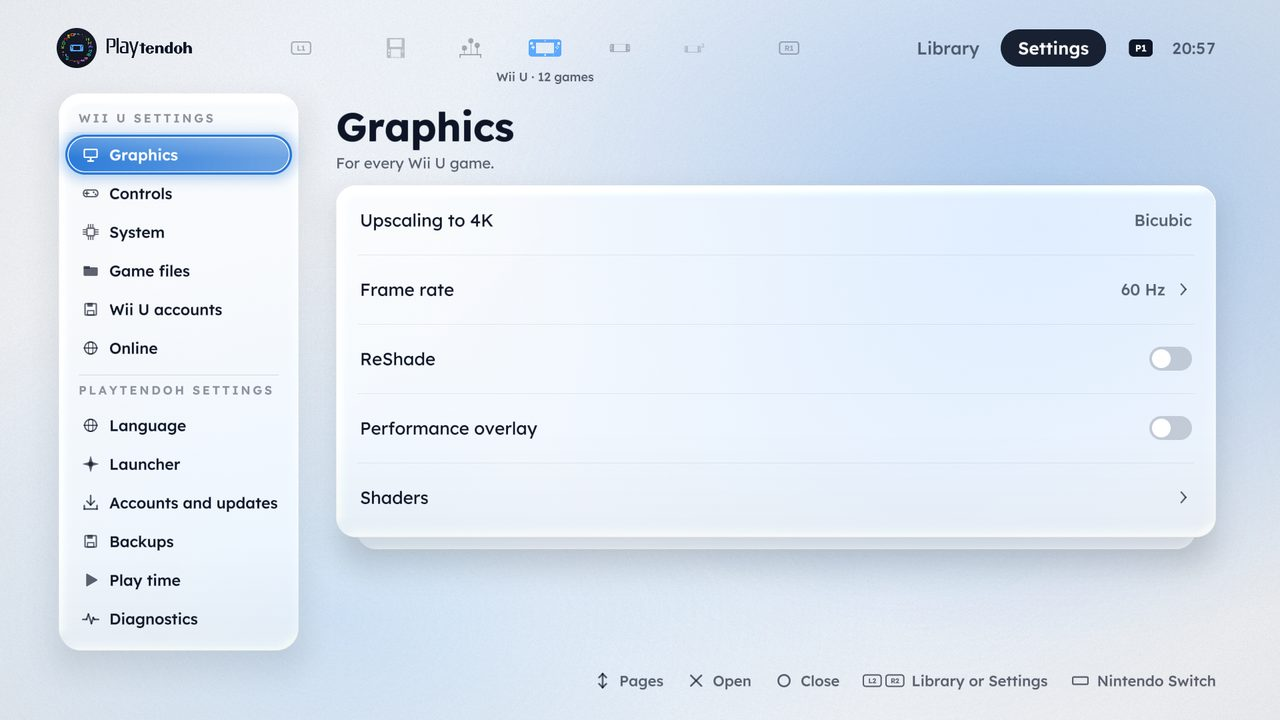
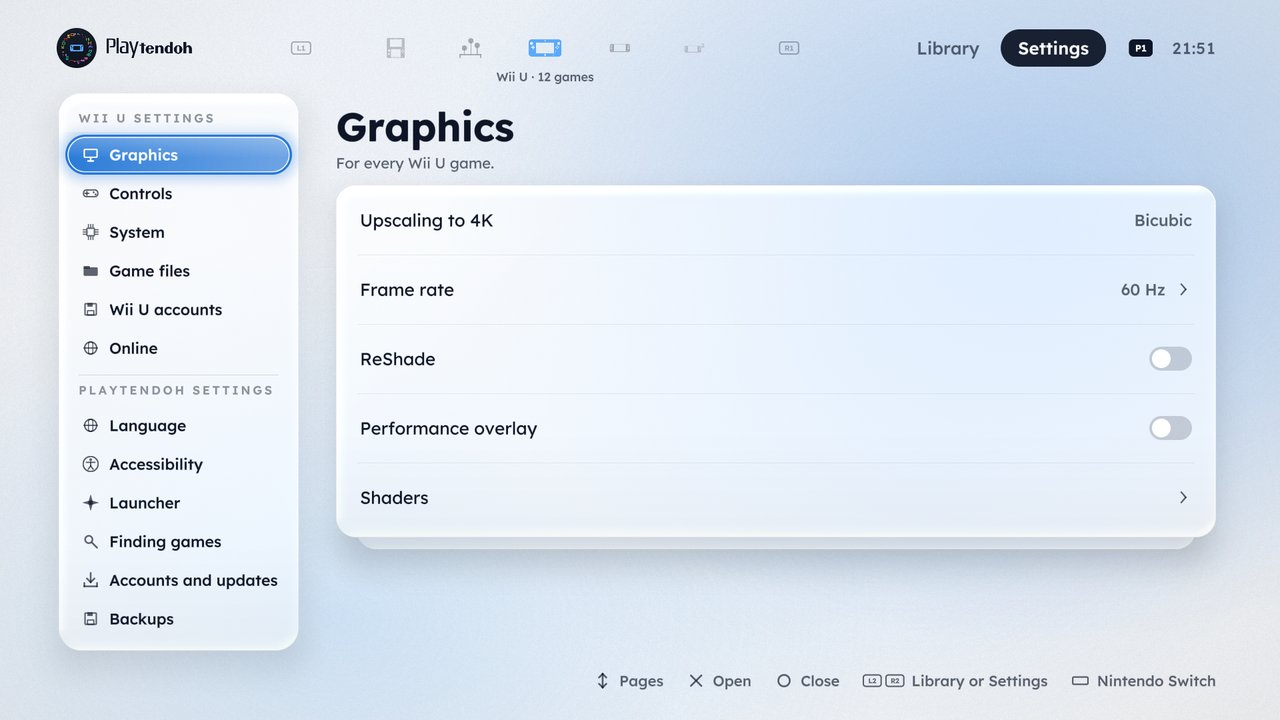
Guide: put your games anywhere, and the new first start, Setup check and Settings pages
Where your files go starts with "anywhere" and the drop folder; the first start's page has its new steps
(easier to see, finding your games, copying keys and BIOS, the summary) and the anchors the app's QR
codes open (setup-check#finding-games, #files-to-copy); the Setup check's folded groups and its two new
rows; Settings' Accessibility and Finding games; troubleshooting for an empty Library, games on a drive
taken out, and keys and firmware that don't match. The README says the same in short. The pictures are
the PC preview's, with the console's own paths in them (first-covers.jpg goes with its question).

Changed region(s): [[0.0625, 0.6417, 0.2188, 0.7639], [0.0625, 0.7944, 0.2188, 0.825], [0.0625, 0.8556, 0.1562, 0.8861]]

diff --git a/site/guide/setup-check.md b/site/guide/setup-check.md
@@ -1,15 +1,32 @@
 # The first start and the Setup check
 
-The first time Playtendoh starts, it asks five questions, one a screen, then shows what's ready. Cross
-chooses and goes on, Circle goes back a step, and the bar at the top right says how far along you are.
-Every answer can be changed later, and **Settings > Launcher > Make it yours** runs the questions again.
+The first time Playtendoh starts, it asks a few questions, one a screen. While you answer them it looks for
+your games, BIOS files and keys on your USB drives and the PS5's storage, so you don't have to put them in
+any particular place. Then it shows what it found. Cross chooses and goes on, Circle goes back a step, and
+the bar at the top right says how far along you are. Every answer can be changed later, and **Settings >
+Launcher > Make it yours** runs the questions again.
 
 ## 1. Which language? {#language}
 
 Playtendoh speaks your PS5's language, marked **PS5**. Pick another if you like; **Settings > Language**
-changes it later. 31 languages are in.
+changes it later. 31 languages are in. **Triangle** makes the text larger right away, on this screen and the
+next.
 
-## 2. How do you want to browse your games? {#layout}
+## 2. Make Playtendoh easier to see? {#accessibility}
+
+![Larger text, High contrast and Reduce motion, each with its switch, and Continue below them.](img/first-easier.jpg)
+
+| Choice | What it does |
+|---|---|
+| **Larger text** | Every word a size larger, in every menu. |
+| **High contrast** | Solid panels instead of glass, all text at full strength and a thicker focus ring. |
+| **Reduce motion** | Short fades instead of movement, and a background that keeps still. |
+
+Cross turns the selected one on or off and you see it at once. **Continue**, below them, is selected when the
+screen opens, so one press goes on. **Settings > Accessibility** changes them later, with **Hold to
+confirm** (how long Cross is held for actions that can't be undone).
+
+## 3. How do you want to browse your games? {#layout}
 
 ![The layout question: Classic, Orbit or EmulationStation.](img/first-layout.jpg)
 
@@ -21,13 +38,7 @@ changes it later. 31 languages are in.
 
 Your games, saves and settings are the same whichever you pick. **Settings > Launcher > Layout** changes
 it later. With EmulationStation, hold **L1** while Playtendoh starts to get its own launcher instead.
-
-## 3. How should covers look? {#covers}
-
-![Flat covers or 3D boxes.](img/first-covers.jpg)
-
-**Flat** shows each cover as a picture, and the most games at once. **3D boxes** shows each game as its
-box, spine and all. Covers come from GameTDB either way. **Settings > Launcher > 3D box art** changes it.
+Covers are flat pictures to start with; **Settings > Launcher > 3D box art** shows them as boxes.
 
 ## 4. Which button is A? {#buttons}
 
@@ -47,41 +58,89 @@ your PSN name or ID, your console's serial or addresses, your accounts, folders,
 The reports make the [compatibility list](../compatibility.html) and help fix what fails.
 **Settings > Accounts and updates > Send reports** turns it on or off later.
 
-## 6. You're ready to play, or almost {#ready}
+## 6. Finding your games {#finding-games}
 
-![The last screen: the games found on each console, and what stands in the way of playing them.](img/first-ready.jpg)
+Playtendoh looks through, in any folders:
 
-The last screen asks nothing. It shows the games found on each console, and anything that stands in the
-way of playing them, with a QR code to the page of this guide that fixes it. Cross starts playing.
+- every **USB drive** and the **extended storage** plugged in;
+- **`/data/playtendoh`**, a folder made for you: put anything there;
+- **`/data/homebrew`** and the rest of **`/data`**, every system's own folder included.
 
-## 7. Turn on the systems you want {#systems}
+It finds every system's games by their file types (and, where it's quick, by what is inside them: a `.3ds`
+that is really a 3D model is left out), BIOS files by their names and sizes, the Switch's `prod.keys`,
+`title.keys` and firmware (a folder of `.nca` files), and the Wii U's `keys.txt`.
 
-> [!IMPORTANT]
-> **Out of the box, the bar shows the Wii U, Switch, Switch 2, DS and 3DS only.** The GameCube, the Wii and
-> every classic system (N64, NES, SNES, the Game Boys and the rest) start hidden. Turn on the ones you
-> want: **Settings > Launcher > Systems**.
+- **Games are played where they are.** Nothing is moved, renamed or deleted. A system's Library looks in
+  its own folder and in each place its games were found.
+- **Every system it finds games for is turned on** in the bar, unless you hid it yourself.
+- **A folder you chose** in a system's **Settings > Game files** is used as it is: Playtendoh adds nothing to
+  that system.
+
+If the look is still going when you finish the questions, a screen shows where it's looking; Cross goes on
+without waiting, and what it finds shows up in the Library as it ends. Playtendoh looks again at every start
+and when you plug in a drive (a sign beside the clock shows while it looks).
+
+![Settings > Finding games: Find games by itself, Look now, Copy found files, Where games were found and the drop folder.](img/finding-games.jpg)
+
+**Settings > Finding games** turns that off, looks again whenever you ask (**Look now**), lists where each
+system's games were found, and copies what it found (**Copy found files**). The Setup check's **Find games
+and files** row looks again too.
+
+## 7. Copy your keys and BIOS into place? {#files-to-copy}
+
+![The files found, from where, and Copy them or Not now.](img/first-files.jpg)
+
+BIOS files, keys and firmware are different from games: each emulator reads them from one folder of its
+own. When Playtendoh finds one that isn't there yet, it asks before copying it there:
+
+- **Copy them** makes a copy in the emulator's folder ([Where your files go](files.md) lists them). Your file
+  stays where it is, and **a file already there is never replaced**.
+- **Not now** leaves them; **Settings > Finding games > Copy found files**, or the Setup check's **Files to
+  copy** row, copies them later.
+
+The Switch's keys and firmware are copied for the Switch 2 side too. When there are several, the newest keys
+are taken, with the firmware found nearest to them: keys and firmware from the same console and the same
+system version work best together ([error 59](troubleshooting.md#switch-error-59)).
+
+## 8. You're ready to play, or almost {#ready}
+
+![The last screen: each console's games, how many and where they were found, and what stands in the way of playing them.](img/first-ready.jpg)
+
+The last screen asks nothing. It shows each console's games, how many and where they were found, and
+anything that stands in the way of playing them, with a QR code to the page of this guide that fixes it.
+Cross starts playing.
+
+## Showing and hiding systems {#systems}
+
+Every system Playtendoh finds games for is shown in the bar. Out of the box, before any games are found,
+the bar shows the Wii U, Switch, Switch 2, DS and 3DS; the GameCube, the Wii and every classic system (N64,
+NES, SNES, the Game Boys and the rest) appear as soon as their games are found. **Settings > Launcher >
+Systems** shows or hides any of them.
 
 ![Settings > Launcher > Systems: a switch for each console.](img/systems.jpg)
 
-Each system has a switch. A hidden system keeps its games and settings, and at least one stays on.
+Each system has a switch. A hidden system keeps its games and settings, at least one stays on, and a system
+you hid stays hidden whatever games are found for it.
 
 ## The Setup check {#setup-check}
 
 The Setup check answers "why doesn't it work?" in one screen. It opens by itself when a start finds
 something wrong with storage or game speed, and any time from **Settings > Diagnostics > Setup check**.
 
-![The Setup check: what needs you, what's optional, what's ready, and the selected row explained beside it.](img/setup-check.jpg)
+![The Setup check: what needs you, then Optional and Ready folded into a row each, and the selected row explained beside it.](img/setup-check.jpg)
 
-Each row is one thing Playtendoh needs, grouped:
+It shows first what **needs you** (amber), a row each: something to fix before those games can play. Below
+them, two rows hold the rest, folded so the screen stays short:
 
-- **Needs you** (amber): something to fix before those games can play.
-- **Optional** (grey): only some games need it.
-- **Ready** (green): nothing to do.
+- **Optional** (grey): what only some games need, a console's own BIOS, the 3DS's system files and the like.
+- **Ready** (green): what works, your games among it.
+
+Cross on either opens it, and again folds it.
 
 Move to a row and the panel beside it says what it means and what to do, with a **QR code**: scan it with
-your phone and it opens the page of this guide about that row. **Cross** does the row's action (choose a
-folder, see how), **Triangle** checks everything again after you've copied files, and **Circle** goes on
-to the Library.
+your phone and it opens the page of this guide about that row. **Cross** does the row's action (look for
+games, copy files, choose a folder, see how), **Triangle** checks everything again after you've copied
+files, and **Circle** goes on to the Library.
 
 ## Every row, and what to do {#rows}
 
@@ -89,7 +148,9 @@ to the Library.
 |---|---|
 | **Storage** | `/data` can't be reached. [Let Playtendoh in](jailbreak.md#app-jailbreak) through your HEN, or run an ELF loader on port 9021, then start the app again. |
 | **Game speed** | Wii U games would run slowly. See [game speed](jailbreak.md#game-speed). |
-| ***Console* games** | No games found yet in that console's folder. Copy them in, or press Cross to choose another folder. [Where your files go](files.md) has every folder. |
+| **Find games and files** | How many games the last look found. Cross looks again on the drives and in `/data` ([finding your games](#finding-games)). |
+| **Files to copy** | BIOS files, keys or firmware were found and aren't in place yet. Cross copies them; the panel lists each one, from where and to where ([copying](#files-to-copy)). |
+| ***Console* games** | How many games that console has, and where most of them are. None yet is optional: put them anywhere on a USB drive or in `/data/playtendoh`, or press Cross to choose a folder. "Cannot be read" is a folder you chose that isn't there. |
 | **Wii U disc keys** | Only encrypted `.wud` and `.wux` need them. It says how many keys `keys.txt` holds; "no keys" on a file you filled before means it was emptied: put your copy back ([disc keys](wii-u.md#disc-keys)). |
 | **3DS system files** | Optional: for the 3DS Home Menu and a few games ([system files](3ds.md#system-files)). |
 | **DS BIOS** | Optional: most games run on the built-in one ([DS BIOS](ds.md#bios)). |
@@ -97,7 +158,6 @@ to the Library.
 | **Switch keys**, **Switch firmware** | Switch games need both, from your own Switch. "prod.keys is empty" means the file is there with nothing in it ([keys and firmware](switch.md#keys-and-firmware)). |
 | **Switch 2 keys**, **Switch 2 firmware** | The same for the Switch 2 side ([its keys and firmware](switch-2.md#keys-and-firmware)). |
 | **Box art** | Covers download from GameTDB ([box art](#box-art), below). |
-| **System folders** | Where each system's files are kept ([Where your files go](files.md)). |
 | **Another copy of Playtendoh** | A second copy of the app is on the console, and the home screen may start it. It says which version and where: delete the one you don't use ([an old version comes back](troubleshooting.md#old-version)). |
 
 ## Box art {#box-art}

diff --git a/site/guide/files.md b/site/guide/files.md
@@ -1,8 +1,27 @@
 # Where your files go
 
-Each system keeps its files in a folder of its own in `/data`, and Playtendoh's launcher keeps its own in
-`/data/ps5cemu`. The app makes every folder itself the first time it starts, so you only copy files in.
-This page is the whole map; each system's page has the detail.
+**Put your games anywhere.** On a USB drive, the extended storage, in `/data/playtendoh` (a folder made for
+you) or `/data/homebrew`, in any folders: one per console, or all together. Playtendoh finds them as it
+starts and when you plug in a drive, and plays them where they are ([how it looks](setup-check.md#finding-games)).
+BIOS files, Switch keys and firmware, and the Wii U's `keys.txt` can go anywhere too: Playtendoh finds them
+and, when you say so, copies each into its emulator's own folder ([copying](setup-check.md#files-to-copy)).
+
+Each system still has a folder of its own in `/data`, the one its emulator reads its BIOS, keys and saves
+from, and Playtendoh's launcher keeps its own in `/data/ps5cemu`. The app makes every folder itself the first
+time it starts. This page is the whole map; each system's page has the detail.
+
+## Anywhere, and the drop folder {#anywhere}
+
+| Put it in... | And Playtendoh... |
+|---|---|
+| any folder on a **USB drive** or the **extended storage** | finds it at the next start, or as soon as you plug the drive in |
+| **`/data/playtendoh`**, in any folders | finds it at the next start |
+| `/data/homebrew`, or a folder of your own in `/data` | finds it at the next start (another app's own folder is never looked into) |
+| a system's own folder (below) | lists it as always |
+
+A game is listed on its system's side, which is turned on in the bar if it was hidden (unless you hid it
+yourself). Take a drive out and its games leave the Library; put it back and they return. A system whose
+games folder you chose in **Settings > Game files** uses that folder only.
 
 ## Every system at a glance {#folders}
 
@@ -17,9 +36,10 @@ This page is the whole map; each system's page has the detail.
 | [Wii](gamecube-wii.md) | `/data/porpoise/games/Wii` | none | none |
 | [The classics](classics.md) | `/data/PS5NES/games`, `/data/PS5SNES/games`... ([every one](classics.md#games)) | a BIOS in the system's `system` folder, for two of them | none |
 
-**Any other folder works too:** on each system's side, **Settings > Game files**, its first row (the
-games folder) chooses another, on the PS5, a USB drive or the extended storage, and subfolders are
-searched.
+**Your own folder instead:** on each system's side, **Settings > Game files**, its first row (the games
+folder) chooses one, on the PS5, a USB drive or the extended storage, and subfolders are searched. While a
+system uses its own folder, the row says where else its games were found ("Found in USB drive 1 / roms");
+once you choose one, that folder is the system's only one.
 
 ![The Wii U side's Settings > Game files: its games folder first, then Look for games now, Network shares, disc keys, and updates, DLC and mods.](img/game-files.jpg)
 

diff --git a/site/guide/troubleshooting.md b/site/guide/troubleshooting.md
@@ -48,15 +48,24 @@ then **Settings > Launcher > Layout** to switch back for good.
 
 ### I can't find the GameCube, Wii, NES, N64... {#hidden-systems}
 
-They start hidden. Turn them on in **Settings > Launcher > Systems** ([how](setup-check.md#systems)).
+They appear in the bar as soon as Playtendoh finds their games. Before that, or if you hid one, turn it on
+in **Settings > Launcher > Systems** ([how](setup-check.md#systems)).
 
 ### A system's Library is empty {#library-empty}
 
-- Check the games are in that system's folder ([Where your files go](files.md)), or that the folder you
-  chose in **Settings > Game files** is the one they're in.
-- Check their format is one the system plays (each system's page lists them).
-- **Settings > Game files > Look for games now** looks again.
-- The Setup check's row for that system says how many games it found, and where.
+- Its empty Library's **Look for games** looks on your drives and in `/data` now. Games can be anywhere on a
+  USB drive or in `/data/playtendoh`, in any folders ([Where your files go](files.md#anywhere)).
+- Check their format is one the system plays (each system's page lists them): a game in a `.7z` or `.rar`
+  is only found in the system's own folder or one you chose, as which console it is for can't be told from
+  outside.
+- If you chose a folder in **Settings > Game files**, that folder is the system's only one: check the games
+  are in it, or choose its own folder again to have the ones found elsewhere back.
+- The Setup check's row for that system says how many games it found, and where most of them are.
+
+### A game on a USB drive is gone {#drive-games-gone}
+
+Its drive was taken out, or the PS5 gave it another number. Put it back: Playtendoh looks again as the
+drive comes in, and the games return. Nothing about them was forgotten.
 
 ### Wii U: an unpacked game is found but not listed {#wii-u-not-listed}
 
@@ -81,7 +90,10 @@ known problem being looked at.
 ### Switch: error 59, or "Loader status 28" {#switch-error-59}
 
 Your keys and firmware don't match: keys from an older system version than the firmware. Dump **both**
-again from your own Switch, at the same time ([keys and firmware](switch.md#keys-and-firmware)).
+again from your own Switch, at the same time ([keys and firmware](switch.md#keys-and-firmware)). Playtendoh
+copies keys and firmware it finds only where none are yet, so it never replaces a pair that doesn't match:
+take the old ones out of `/data/eden/keys` and `/data/eden/firmware`, put the new dump anywhere, and the
+Setup check's **Find games and files**, then **Files to copy**, puts it in place.
 
 ### Breath of the Wild asks for a system update {#botw-update}
 

diff --git a/site/guide/using.md b/site/guide/using.md
@@ -97,12 +97,14 @@ In any game, **touchpad click + Options** opens Playtendoh's in-game menu, on ev
   OLED TVs), or your own JSON in `/data/ps5cemu/themes`.
 - **Music and menu sounds:** **Settings > Launcher**: the original theme, or your own MP3 or WAV files from
   `/data/ps5cemu/music`.
-- **Larger text, High contrast, Reduce motion** and **Hold to confirm** are on **Settings > Launcher** too.
+- **Larger text, High contrast, Reduce motion** and **Hold to confirm** have a page of their own:
+  **Settings > Accessibility**. The first start offers the first three, and Triangle makes the text larger on
+  its first screens.
 - **Home screen tiles:** **Add to home screen** in a game's Options menu makes it a tile on the PS5's home
   screen that starts the game straight away (it needs elfldr on port 9021).
 - **Play time:** **Settings > Play time**: each system's hours and your ten most played games.
 
-![Settings > Launcher, one of Playtendoh's own pages: below the line on the left, the same on every system.](img/launcher.jpg)
+![Settings > Launcher, one of Playtendoh's own pages: below the line on the left, the same on every system, with Accessibility and Finding games beside it.](img/launcher.jpg)
 
 ## Where Settings are {#settings}
 
@@ -115,7 +117,9 @@ system:
 | Page | What's there |
 |---|---|
 | **Language** | The menus' language |
-| **Launcher** | Theme, layout, which systems the bar shows, covers, filters, badges, music, text size, Make it yours |
+| **Accessibility** | Larger text, High contrast, Reduce motion and Hold to confirm |
+| **Launcher** | Theme, layout, which systems the bar shows, covers, filters, badges, music, Make it yours |
+| **Finding games** | Find games by itself, Look now, Copy found files, where each system's games were found, and the drop folder ([how it looks](setup-check.md#finding-games)) |
 | **Accounts and updates** | RetroAchievements, reports, a SteamGridDB key, and Playtendoh's updates |
 | **Backups** | Every system's saves, to a USB drive and back |
 | **Play time** | Time played per system, and your most played games |

diff --git a/README.md b/README.md
@@ -40,6 +40,13 @@
 
 ## What's new in 6.0
 
+- **Put your games anywhere:** on a USB drive, the extended storage, `/data/playtendoh` or `/data/homebrew`,
+  in any folders. Playtendoh finds every system's games as it starts and when a drive is plugged in, plays
+  them where they are, and shows each system it finds games for. BIOS files, Switch keys and firmware and
+  the Wii U's `keys.txt` are found too, and copied where their emulators read them once you say yes, never
+  over a file that's there. A folder you choose in **Settings > Game files** still wins.
+- **Easier to see:** the first start offers larger text, high contrast and reduced motion (Triangle makes
+  the text larger from its first screen), and they have a Settings page of their own, **Accessibility**.
 - **A new name and a new look:** Playtendoh, with a mark of every console's controller in a ring, on the
   PS5's home screen and at the launcher's top left. The consoles' marks are RetroArch's XMB Monochrome icons;
   the Switch 2's is the Switch's with a raised 2.
@@ -179,6 +186,11 @@ they are there already).
 [The guide](docs/GUIDE.md#everything-on-the-apps-drive) says how.
 
 ## Your games
+
+**Put them anywhere** on a USB drive, the extended storage, `/data/playtendoh` or `/data/homebrew`, in any
+folders: Playtendoh finds them and plays them where they are ([how](https://premohq.github.io/PlayTendoh/guide/files.html#anywhere)).
+Keys, firmware and BIOS files can go anywhere too: it copies them into each emulator's folder below, with
+your OK. Each system's own folders, for those who like to put things in place themselves:
 
 | | Games folder | Also needs |
 |---|---|---|

diff --git a/site/guide/updating.md b/site/guide/updating.md
@@ -41,7 +41,8 @@ from any of them is the same as above, and nothing moves:
 - An install from before keeps all its files in `/data/ps5cemu`, and goes on working there. A start then
   offers to give each system its own folder (**Reorganize**, or **Later**); see
   [an install from before](files.md#older-install).
-- **Updating to 6.0:** after the update, turn on the new systems you want (GameCube, Wii and the
-  classics) in **Settings > Launcher > Systems**, and look at **Settings > Launcher > Make it yours** for
-  6.0's layouts and covers.
+- **Updating to 6.0:** at its first start Playtendoh looks for games on your drives and in `/data`, and the
+  new systems it finds games for (GameCube, Wii and the classics) appear in the bar by themselves; a system
+  you had hidden stays hidden. A folder you chose for a system before is kept as it is. **Settings >
+  Launcher > Make it yours** shows 6.0's layouts and the accessibility choices.
 - Older versions' updaters (up to 4.0.1) still find the new release.
